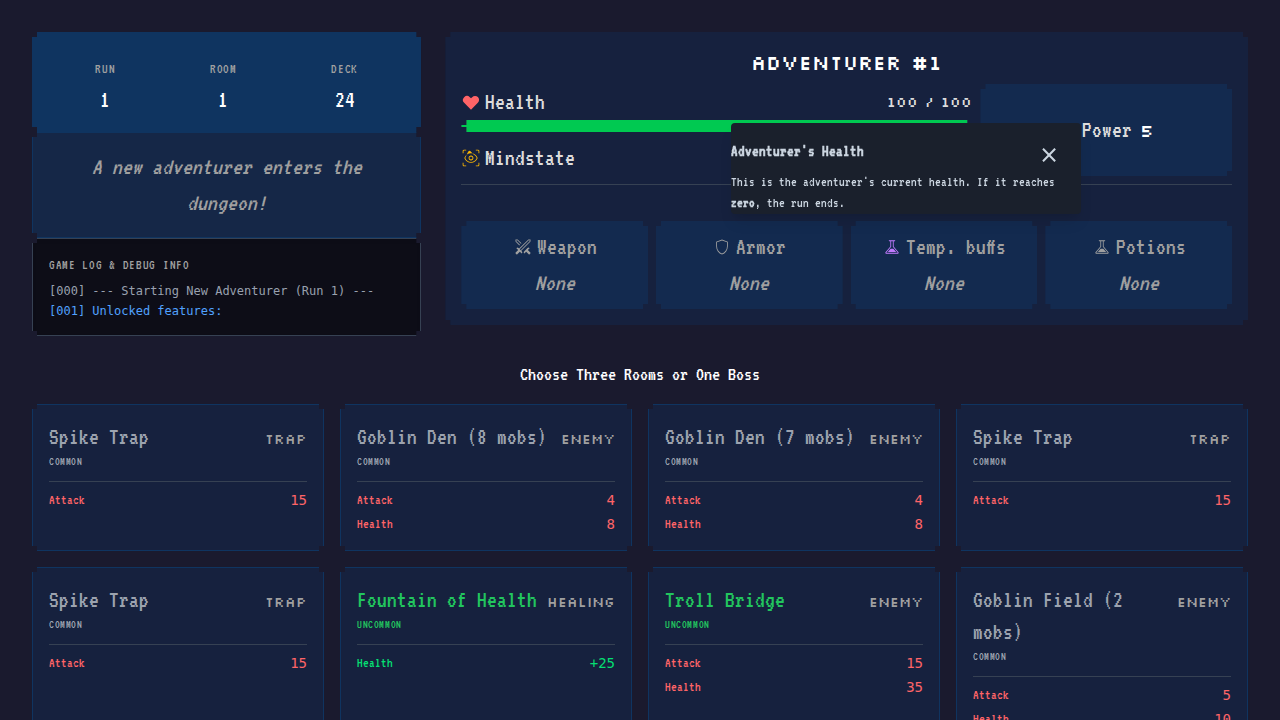
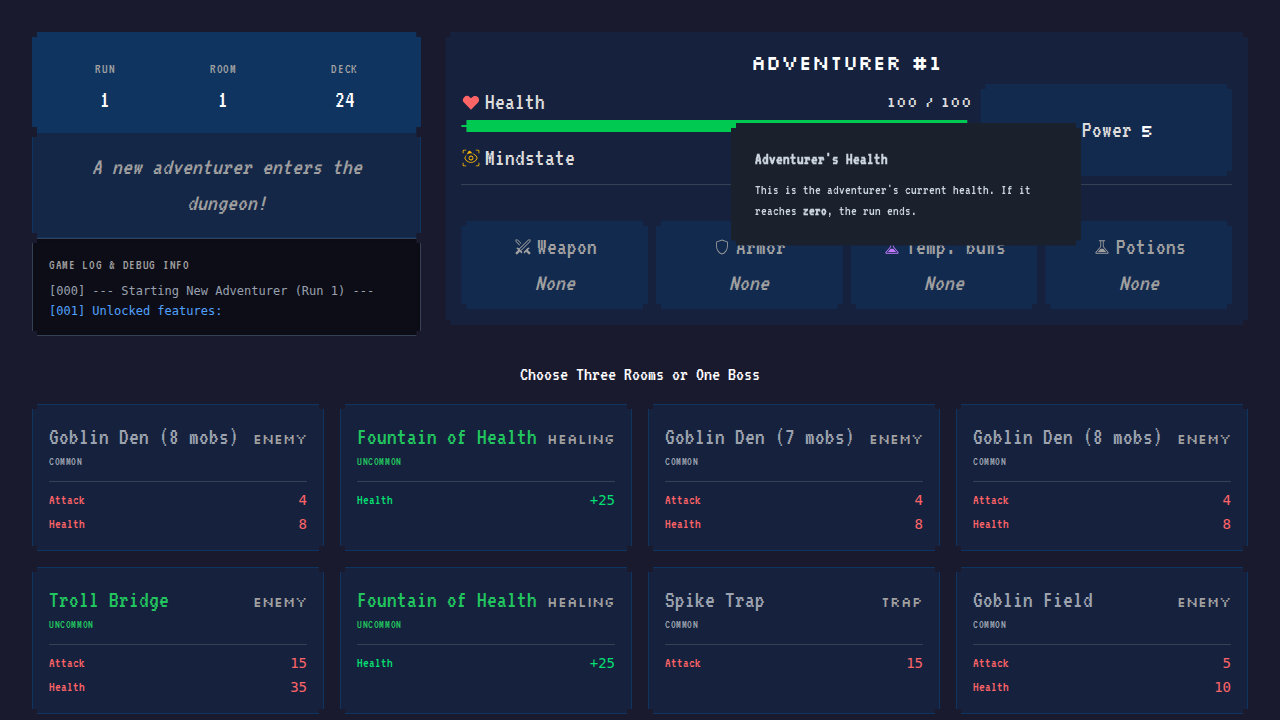
Feat: Improve Tooltip UX on Mobile and Desktop
Refactors the tooltip system to provide a better user experience, particularly on mobile devices, while creating a consistent visual style across platforms.

On mobile devices (with coarse pointers):
- A `?` icon is now dynamically added to elements with tooltips, providing a clear visual cue for interaction.
- The previous long-press (`touchstart`) gesture is replaced with a standard `click` on the icon.
- Clicking the icon displays a full-screen, blocking modal, preventing interaction with the underlying content.
- The modal can be dismissed by tapping a prominent close button or by tapping the backdrop.

On desktop:
- The existing hover-to-show functionality is preserved.
- The visual style of the tooltip has been updated to match the mobile version for a consistent look and feel, including padding and the `pixel-corners` effect.

The changes are verified with an updated Playwright script that tests both desktop hover and the full mobile click-to-open/dismissal flow.

diff --git a/components/TooltipBox.ts b/components/TooltipBox.ts
@@ -3,16 +3,26 @@ import { t } from '../text';
 export class TooltipBox extends HTMLElement {
     private titleElement: HTMLElement;
     private bodyElement: HTMLElement;
-
-    private overlayElement: HTMLElement;
     private closeButton: HTMLElement;
+    private contentContainer: HTMLElement;
 
     constructor() {
         super();
         this.attachShadow({ mode: 'open' });
 
+        this.onclick = (e) => {
+            if (window.matchMedia('(pointer: coarse)').matches && e.target === this) {
+                this.hide();
+            }
+        };
+
         const style = document.createElement('style');
         style.textContent = `
+            .pixel-corners {
+              clip-path: polygon(0 5px, 5px 5px, 5px 0, calc(100% - 5px) 0, calc(100% - 5px) 5px, 100% 5px, 100% calc(100% - 5px), calc(100% - 5px) calc(100% - 5px), calc(100% - 5px) 100%, 5px 100%, 5px calc(100% - 5px), 0 calc(100% - 5px));
+            }
+
+            /* Default desktop styles */
             :host {
                 display: none;
                 position: fixed;
@@ -20,68 +30,77 @@ export class TooltipBox extends HTMLElement {
                 pointer-events: none;
                 background-color: #1a202c;
                 border: 1px solid #4a5568;
-                padding: 1rem;
-                border-radius: 0.25rem;
                 max-width: 350px;
                 font-size: 0.875rem;
                 color: #cbd5e0;
                 box-shadow: 0 10px 15px -3px rgba(0, 0, 0, 0.1), 0 4px 6px -2px rgba(0, 0, 0, 0.05);
             }
 
-            .overlay {
-                display: none;
-                position: fixed;
-                top: 0;
-                left: 0;
-                width: 100%;
-                height: 100%;
-                background-color: rgba(0, 0, 0, 0.7);
-                z-index: 999;
+            .content-container {
+                position: relative;
+                padding: 1.5rem; /* Correctly apply padding here */
             }
 
             .close-button {
-                position: absolute;
-                top: 1rem;
-                right: 1rem;
-                font-size: 1.5rem;
-                color: #cbd5e0;
-                cursor: pointer;
-                background: none;
-                border: none;
+                display: none;
             }
 
+            h3 {
+                margin-top: 0;
+                font-weight: bold;
+                margin-bottom: 8px;
+            }
+
+            /* Mobile styles */
             @media (pointer: coarse) {
                 :host(.show) {
                     display: flex;
-                    flex-direction: column;
-                    left: 50%;
-                    top: 50%;
-                    transform: translate(-50%, -50%);
-                    width: 90vw;
-                    max-width: 500px;
-                    font-size: 1.125rem; /* text-lg */
+                    align-items: center;
+                    justify-content: center;
+                    left: 0;
+                    top: 0;
+                    width: 100%;
+                    height: 100%;
+                    background-color: rgba(0, 0, 0, 0.7);
                     pointer-events: auto;
                 }
 
-                :host(.show) .overlay {
+                .content-container {
+                    background-color: #1a202c;
+                    border: 1px solid #4a5568;
+                    padding: 1.5rem;
+                    max-width: 90vw;
+                    max-height: 90vh;
+                    overflow-y: auto;
+                    position: relative;
+                    color: #cbd5e0;
+                    font-size: 1.125rem;
+                }
+
+                .close-button {
                     display: block;
+                    position: absolute;
+                    top: 0.5rem;
+                    right: 0.5rem;
+                    font-size: 2.5rem;
+                    color: #cbd5e0;
+                    cursor: pointer;
+                    background: none;
+                    border: none;
+                    line-height: 1;
                 }
 
                 h3 {
-                    font-size: 1.5rem; /* text-2xl */
+                    font-size: 1.5rem;
+                    text-align: center;
                 }
             }
         `;
 
-        this.overlayElement = document.createElement('div');
-        this.overlayElement.className = 'overlay';
-        this.overlayElement.onclick = () => this.hide();
+        this.contentContainer = document.createElement('div');
+        this.contentContainer.className = 'content-container';
 
-        const container = document.createElement('div');
         this.titleElement = document.createElement('h3');
-        this.titleElement.style.fontWeight = 'bold';
-        this.titleElement.style.marginBottom = '8px';
-
         this.bodyElement = document.createElement('div');
 
         this.closeButton = document.createElement('button');
@@ -89,13 +108,21 @@ export class TooltipBox extends HTMLElement {
         this.closeButton.innerHTML = '&times;';
         this.closeButton.onclick = () => this.hide();
 
-        container.appendChild(this.closeButton);
-        container.appendChild(this.titleElement);
-        container.appendChild(this.bodyElement);
+        this.contentContainer.appendChild(this.closeButton);
+        this.contentContainer.appendChild(this.titleElement);
+        this.contentContainer.appendChild(this.bodyElement);
 
         this.shadowRoot!.appendChild(style);
-        this.shadowRoot!.appendChild(this.overlayElement);
-        this.shadowRoot!.appendChild(container);
+        this.shadowRoot!.appendChild(this.contentContainer);
+    }
+
+    connectedCallback() {
+      // Apply pixel-corners class after the element is in the DOM
+      if (window.matchMedia('(pointer: coarse)').matches) {
+        this.contentContainer.classList.add('pixel-corners');
+      } else {
+        this.classList.add('pixel-corners');
+      }
     }
 
     show(content: { title: string, body: string }, x: number, y: number) {
@@ -103,10 +130,8 @@ export class TooltipBox extends HTMLElement {
         this.bodyElement.innerHTML = content.body;
 
         if (window.matchMedia('(pointer: coarse)').matches) {
-            this.style.display = ''; // Clear inline style to allow class to take over
+            this.style.display = '';
             this.classList.add('show');
-            this.overlayElement.style.display = 'block';
-            this.closeButton.style.display = 'block';
         } else {
             this.style.display = 'block';
             this.style.left = `${x + 15}px`;
@@ -115,10 +140,8 @@ export class TooltipBox extends HTMLElement {
     }
 
     hide() {
-        this.style.display = 'none';
         this.classList.remove('show');
-        this.overlayElement.style.display = 'none';
-        this.closeButton.style.display = 'none';
+        this.style.display = 'none';
     }
 }
 

diff --git a/tooltip.ts b/tooltip.ts
@@ -52,33 +52,17 @@ class TooltipManager {
         }, 100); // 100ms delay before hiding
     }
 
-    public handleTouchStart(event: TouchEvent) {
-        if (this.showTimeout) {
-            clearTimeout(this.showTimeout);
-            this.showTimeout = null;
-        }
-
+    public handleClick(event: MouseEvent) {
         const target = event.target as HTMLElement;
-        const tooltipKey = this.findTooltipKey(target);
-
-        if (tooltipKey) {
-            // Prevent the mouse event from firing
-            event.preventDefault();
-            this.showTimeout = window.setTimeout(() => {
+        if (target.classList.contains('tooltip-icon')) {
+            const tooltipKey = this.findTooltipKey(target.parentElement);
+            if (tooltipKey) {
                 const tooltipContent = this.getTooltipContent(tooltipKey);
                 if (tooltipContent) {
                     this.tooltipBox.show(tooltipContent, 0, 0); // Position is handled by CSS for touch
                 }
-            }, 300); // 300ms delay before showing
+            }
         }
-    }
-
-    public handleTouchEnd() {
-        if (this.showTimeout) {
-            clearTimeout(this.showTimeout);
-            this.showTimeout = null;
-        }
-        // No hide timeout on touch, the user can tap away or use a close button
     }
 
     private isTouchDevice(): boolean {

diff --git a/main.ts b/main.ts
@@ -2,6 +2,7 @@ import './index.css';
 import { GameEngine } from './game/engine';
 import { initLocalization, t } from './text';
 import { render } from './rendering';
+import { initializeTooltipIcons } from './components/TooltipHelper';
 import { MetaManager } from './game/meta';
 import { LocalStorage } from './game/storage';
 import { DataLoaderFetch } from './game/data-loader-fetch';
@@ -49,6 +50,7 @@ engine.on('state-change', (newState) => {
     return;
   }
   render(appElement, newState, engine);
+  initializeTooltipIcons();
 });
 
 async function main() {
@@ -61,8 +63,7 @@ async function main() {
   // Initialize tooltip listeners
   document.body.addEventListener('mouseover', (e) => tooltipManager.handleMouseEnter(e));
   document.body.addEventListener('mouseout', () => tooltipManager.handleMouseLeave());
-  document.body.addEventListener('touchstart', (e) => tooltipManager.handleTouchStart(e));
-  document.body.addEventListener('touchend', () => tooltipManager.handleTouchEnd());
+  document.body.addEventListener('click', (e) => tooltipManager.handleClick(e));
 
 
   engine.showMenu();

diff --git a/index.css b/index.css
@@ -13,4 +13,34 @@ body {
   -webkit-user-select: none; /* Safari */
   -ms-user-select: none; /* IE 10+ */
   user-select: none; /* Standard syntax */
+  position: relative;
+  cursor: help;
+}
+
+.tooltip-icon {
+    display: none;
+    position: absolute;
+    top: -0.5rem;
+    right: -0.5rem;
+    width: 1.25rem;
+    height: 1.25rem;
+    background-color: #4a5568;
+    color: white;
+    border-radius: 50%;
+    text-align: center;
+    line-height: 1.25rem;
+    font-size: 0.875rem;
+    font-weight: bold;
+    cursor: pointer;
+    z-index: 10;
+}
+
+@media (pointer: coarse) {
+    [data-tooltip-key] {
+        cursor: default;
+    }
+
+    .tooltip-icon {
+        display: inline-block;
+    }
 }

diff --git a/components/TooltipHelper.ts b/components/TooltipHelper.ts
@@ -1,0 +1,9 @@
+export function initializeTooltipIcons() {
+    const tooltipElements = document.querySelectorAll('[data-tooltip-key]');
+    tooltipElements.forEach(el => {
+        const icon = document.createElement('span');
+        icon.textContent = '?';
+        icon.className = 'tooltip-icon';
+        el.appendChild(icon);
+    });
+}

diff --git a/jules-scratch/verification/verify_tooltips.py b/jules-scratch/verification/verify_tooltips.py
@@ -21,10 +21,38 @@ async def main():
         await page.goto("http://localhost:5173")
         await page.get_by_role("button", name="New Game").click()
         await expect(page.locator("adventurer-status")).to_be_visible()
-        await page.tap('[data-tooltip-key="adventurer_health"]')
+
+        health_element = page.locator('[data-tooltip-key="adventurer_health"]')
+        tooltip_icon = health_element.locator('.tooltip-icon')
+
+        # Test opening the tooltip
+        await expect(tooltip_icon).to_be_visible()
+        await tooltip_icon.click()
+
         await page.wait_for_timeout(500) # allow for animation
-        await expect(page.locator("tooltip-box")).to_be_visible()
+        tooltip_box = page.locator("tooltip-box")
+        await expect(tooltip_box).to_be_visible()
+        await expect(tooltip_box).to_have_class("show")
         await page.screenshot(path="jules-scratch/verification/mobile.png")
+
+        # Test closing the tooltip via close button
+        # Playwright pierces shadow DOM by default, so we can locate the button this way
+        close_button = tooltip_box.locator(".close-button")
+        await close_button.click()
+        await page.wait_for_timeout(500) # allow for animation
+        await expect(tooltip_box).not_to_be_visible()
+
+        # Re-open to test closing by clicking the backdrop
+        await tooltip_icon.click()
+        await page.wait_for_timeout(500)
+        await expect(tooltip_box).to_be_visible()
+
+        # Click on the backdrop (the tooltip-box host element itself)
+        # We click at a corner to ensure we're not clicking the content container
+        await tooltip_box.click(position={'x': 5, 'y': 5})
+        await page.wait_for_timeout(500)
+        await expect(tooltip_box).not_to_be_visible()
+
         await browser.close()
 
 if __name__ == "__main__":
